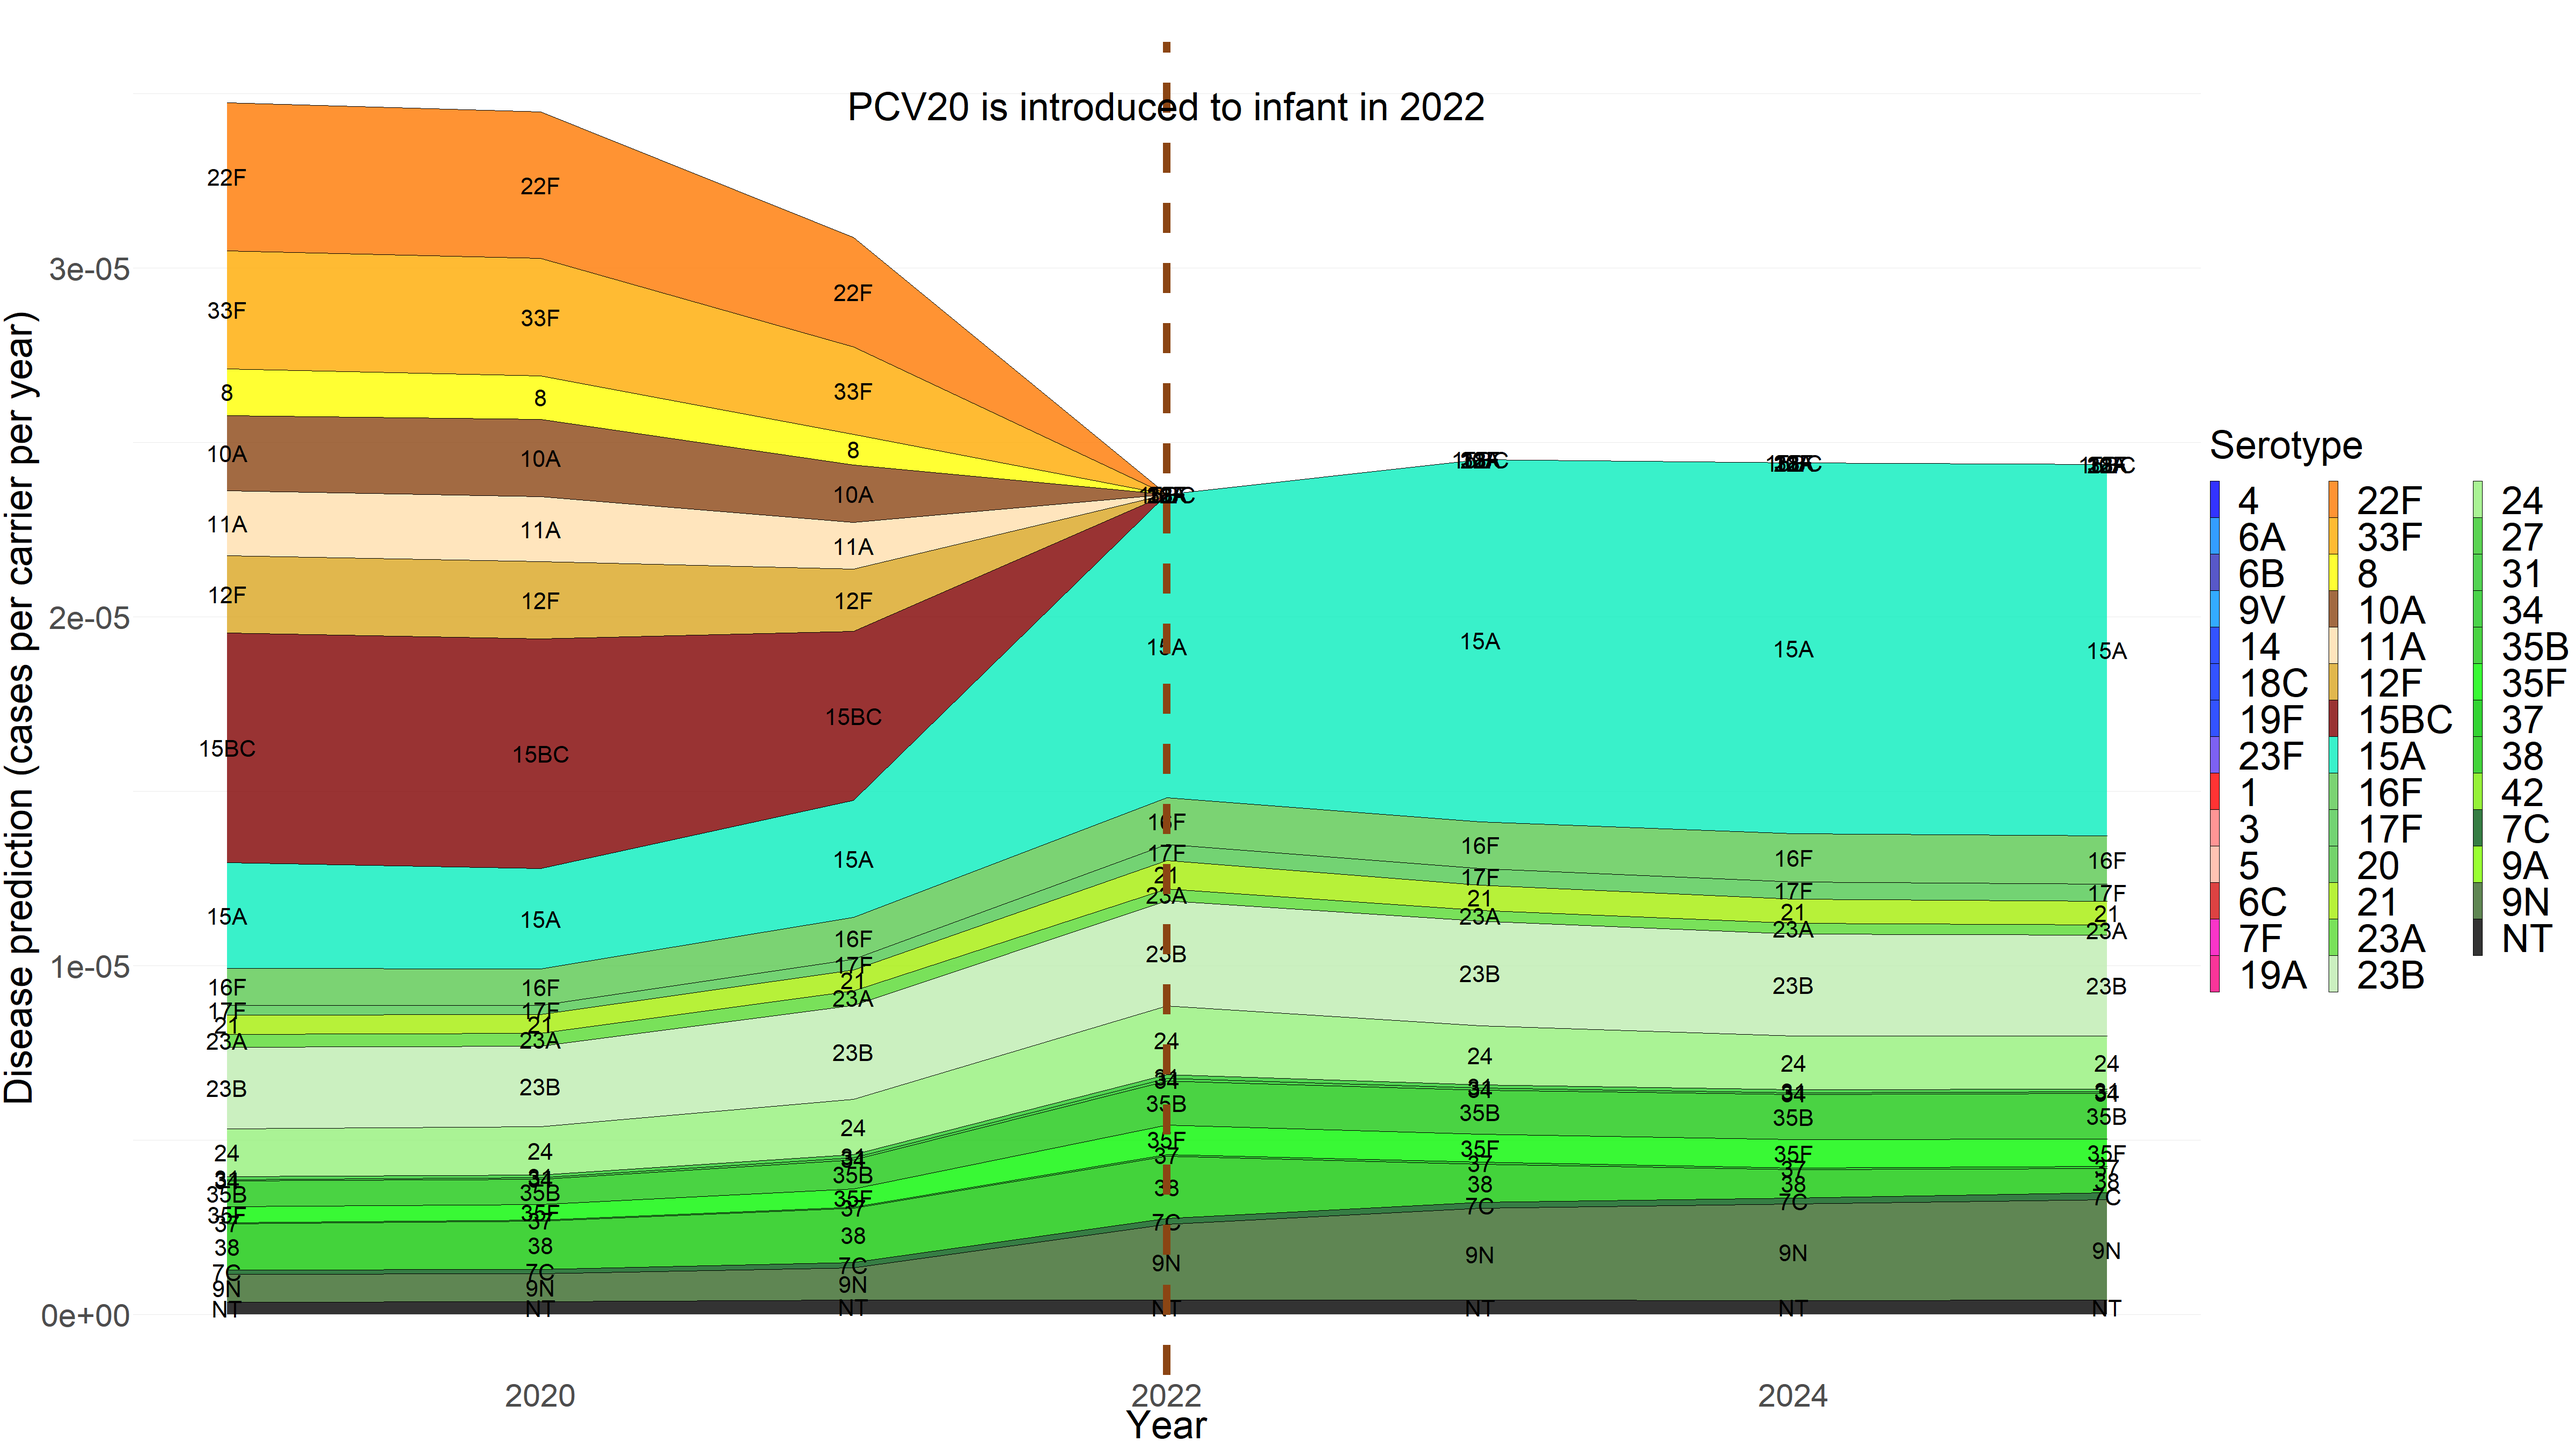
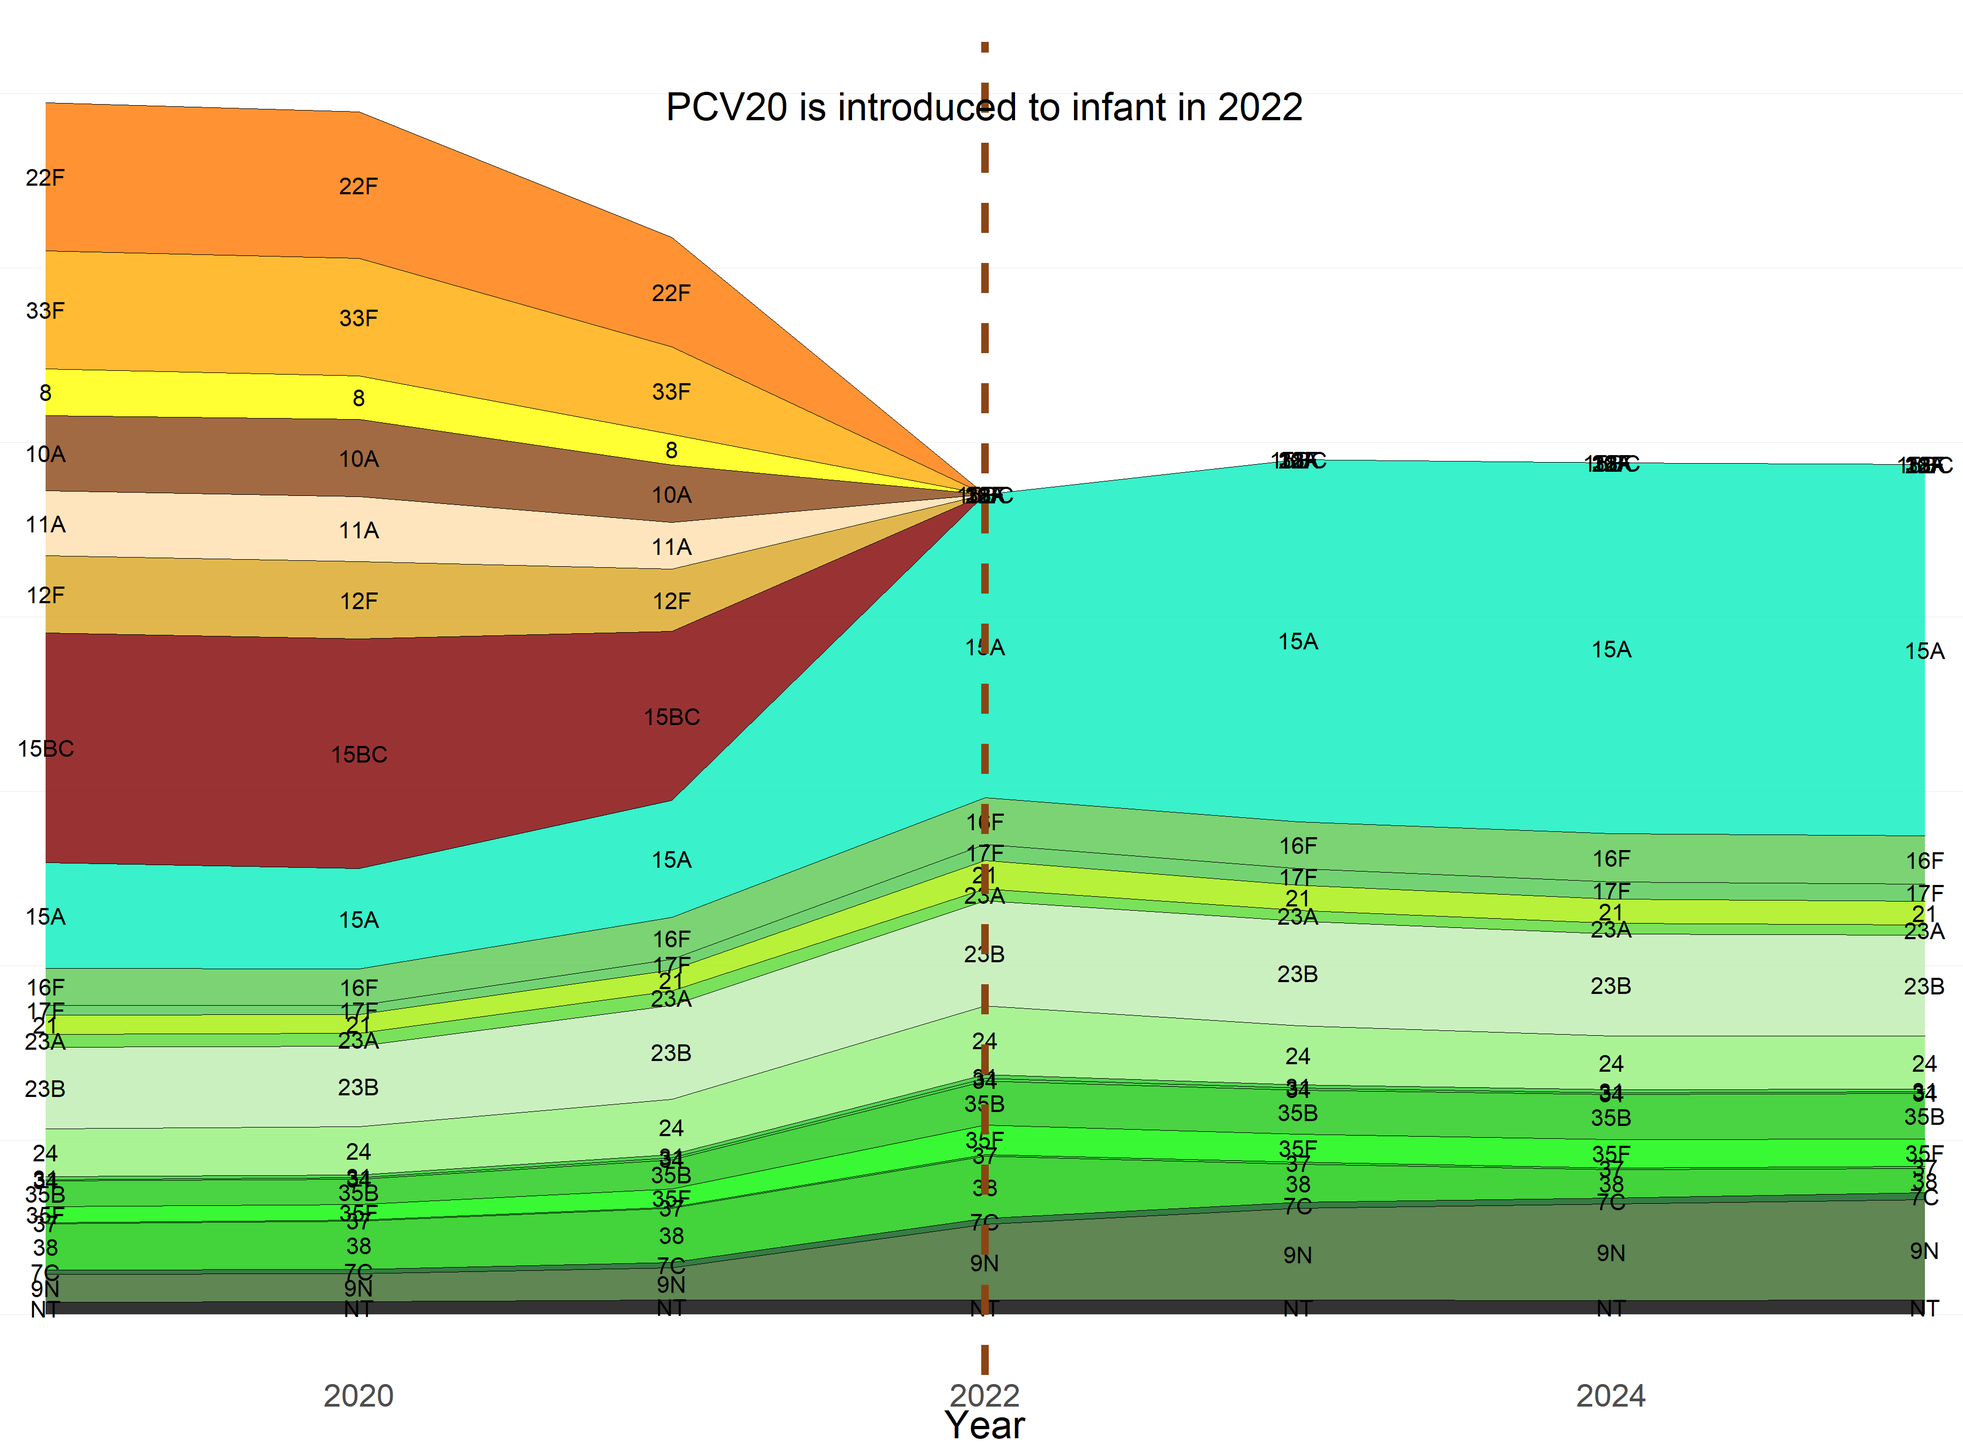
fix copyright issues

diff --git a/work.html b/work.html
@@ -295,23 +295,21 @@
         <img src="assets/work/selected/spn_infant_pcv20_intro_2022_inva_pred.png" loading="lazy" />
         <figcaption>
           From raw genomic data to decision support: automated analysis designed for reliability
-          under uncertainty. <a href="assets/work/selected/pcv20_intro_2022_ani.gif" target="_blank" rel="noopener">(see animation)</a>
+          under uncertainty. <a href="assets/work/selected/pcv20_intro_2022_ani_crop.gif" target="_blank" rel="noopener">(see animation)</a>
         </figcaption>
       </figure>
 
       <p class="work-links">
-        <a href="https://www.youtube.com/watch?v=gK57ByloYI0" target="_blank" rel="noopener">ISPPD2022 presentation</a>
+        <a href="https://www.youtube.com/watch?v=gK57ByloYI0" target="_blank" rel="noopener">ISPPD2022 presentation (Recorded presentation based on the original conference talk.)</a>
         <span> · </span>
         <a href="assets/#503, OPEN-SOURCE DATA AND IMPROVED METHODS FOR ESTIMATION OF PNEUMOCOCCAL INVASIVENESS IN CHILDREN AND ADULTS.pdf" target="_blank" rel="noopener">ISPPD2022 poster</a>
         <span> · </span>
         <a href="assets/GENOMIC EPIDEMIOLOGY OF PNEUMOCOCCI IN THE UK FROM PRE-PCV7 TO POST-PCV13 MODELLING OF CARRIAGE ADN DISEASE DYNAMICS-XI LU.pdf" target="_blank" rel="noopener">INVAR2023 presentation</a>
-        <span> · </span>
-        <a href="https://github.com/drxilu/multilocusNFDS" target="_blank" rel="noopener">Explore workflow and code</a>
       </p>
       <p class="work-links">
         <a href="https://www.youtube.com/watch?v=fwQ0vI1MRrw&list=PL8JY8aybPkcelaRhryJogQ1VBY0SspERV" target="_blank" rel="noopener">IMMEM2025 presentation</a>
         <span> · </span>
-        <a href="https://github.com/drxilu/gps_sub" target="_blank" rel="noopener">Explore workflow and code</a>
+        <a href="https://github.com/microreact" target="_blank" rel="noopener">Explore workflow and code</a>
       </p>
         <a href="contact.html">Explore how predictive modelling could support decisions in your organisation.</a>
       </p>

diff --git a/media.html b/media.html
@@ -163,14 +163,6 @@
         surveillance and evidence-based decision-making.
       </p>
 
-      <figure class="figure-half zoomable">
-        <img src="assets/media/sub_lineage_map.png" loading="lazy" />
-        <figcaption>
-          From raw genomic data to decision support: automated analysis designed for reliability
-          under uncertainty. <a href="https://microreact.org/project/gps-sub-lineage" target="_blank" rel="noopener">(see interactive visualisation)</a>
-        </figcaption>
-      </figure>
-
       <p class="work-links">
         <a href="https://www.youtube.com/watch?v=fwQ0vI1MRrw&list=PL8JY8aybPkcelaRhryJogQ1VBY0SspERV"
           target="_blank"
